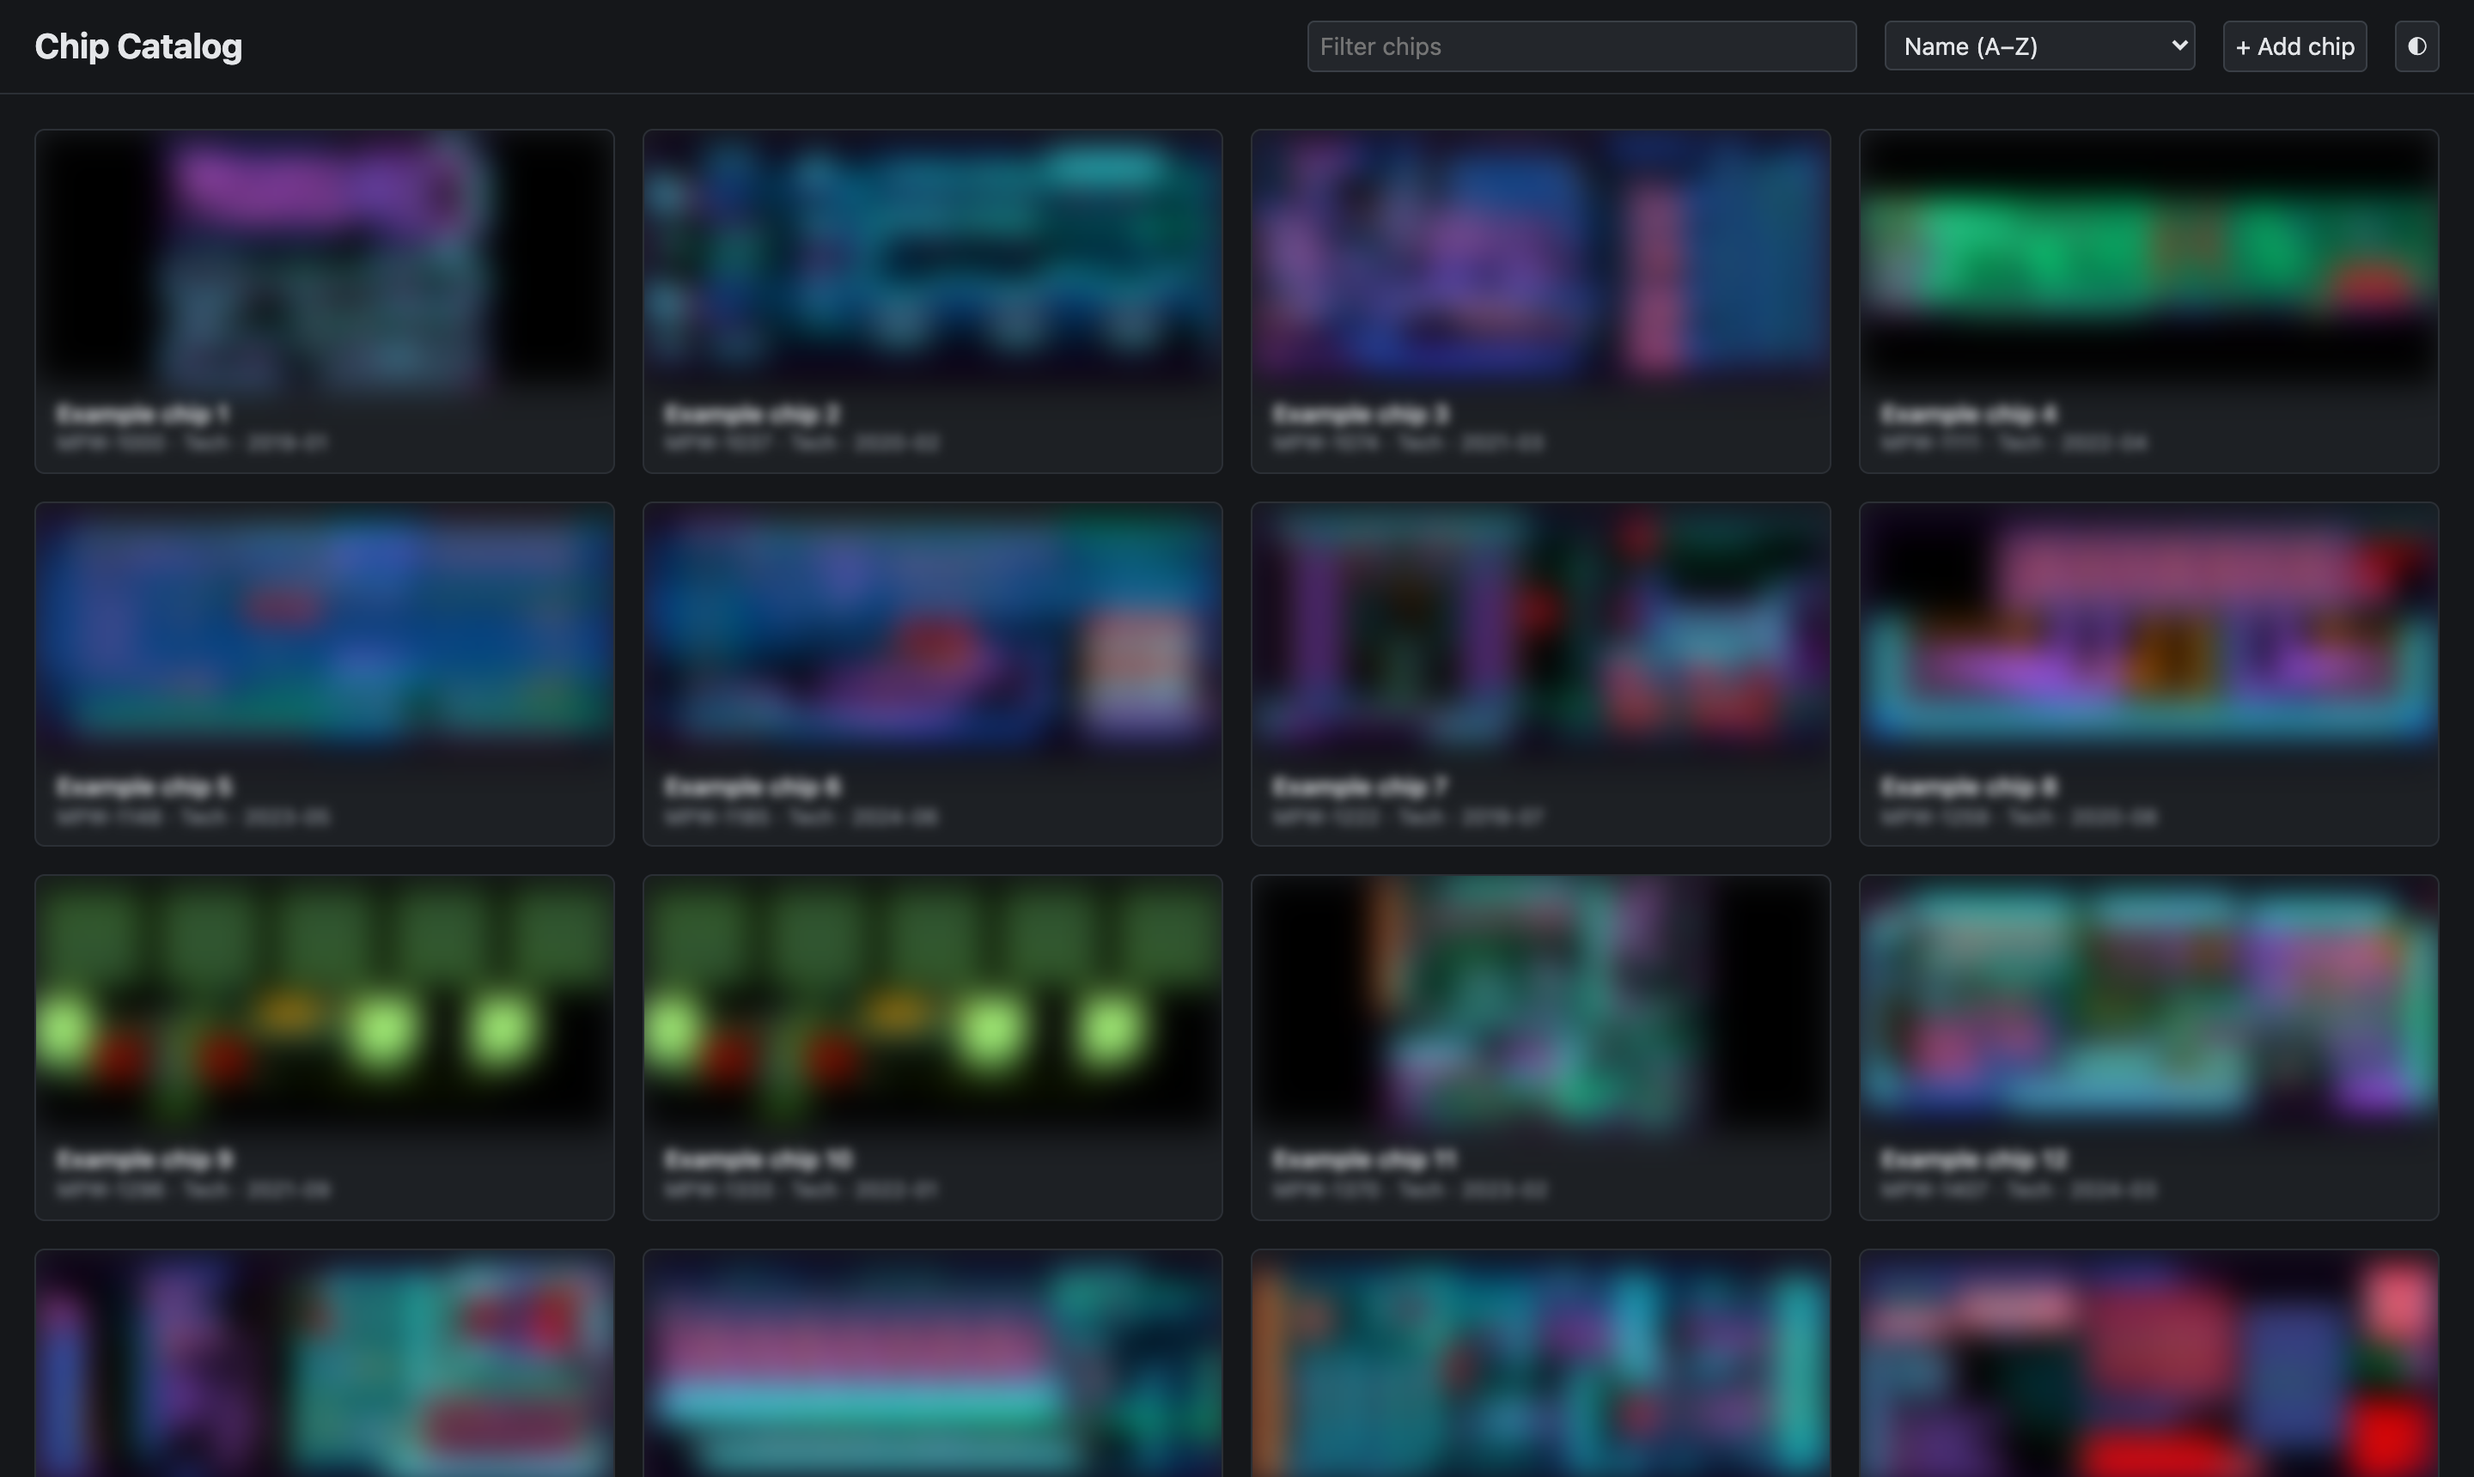
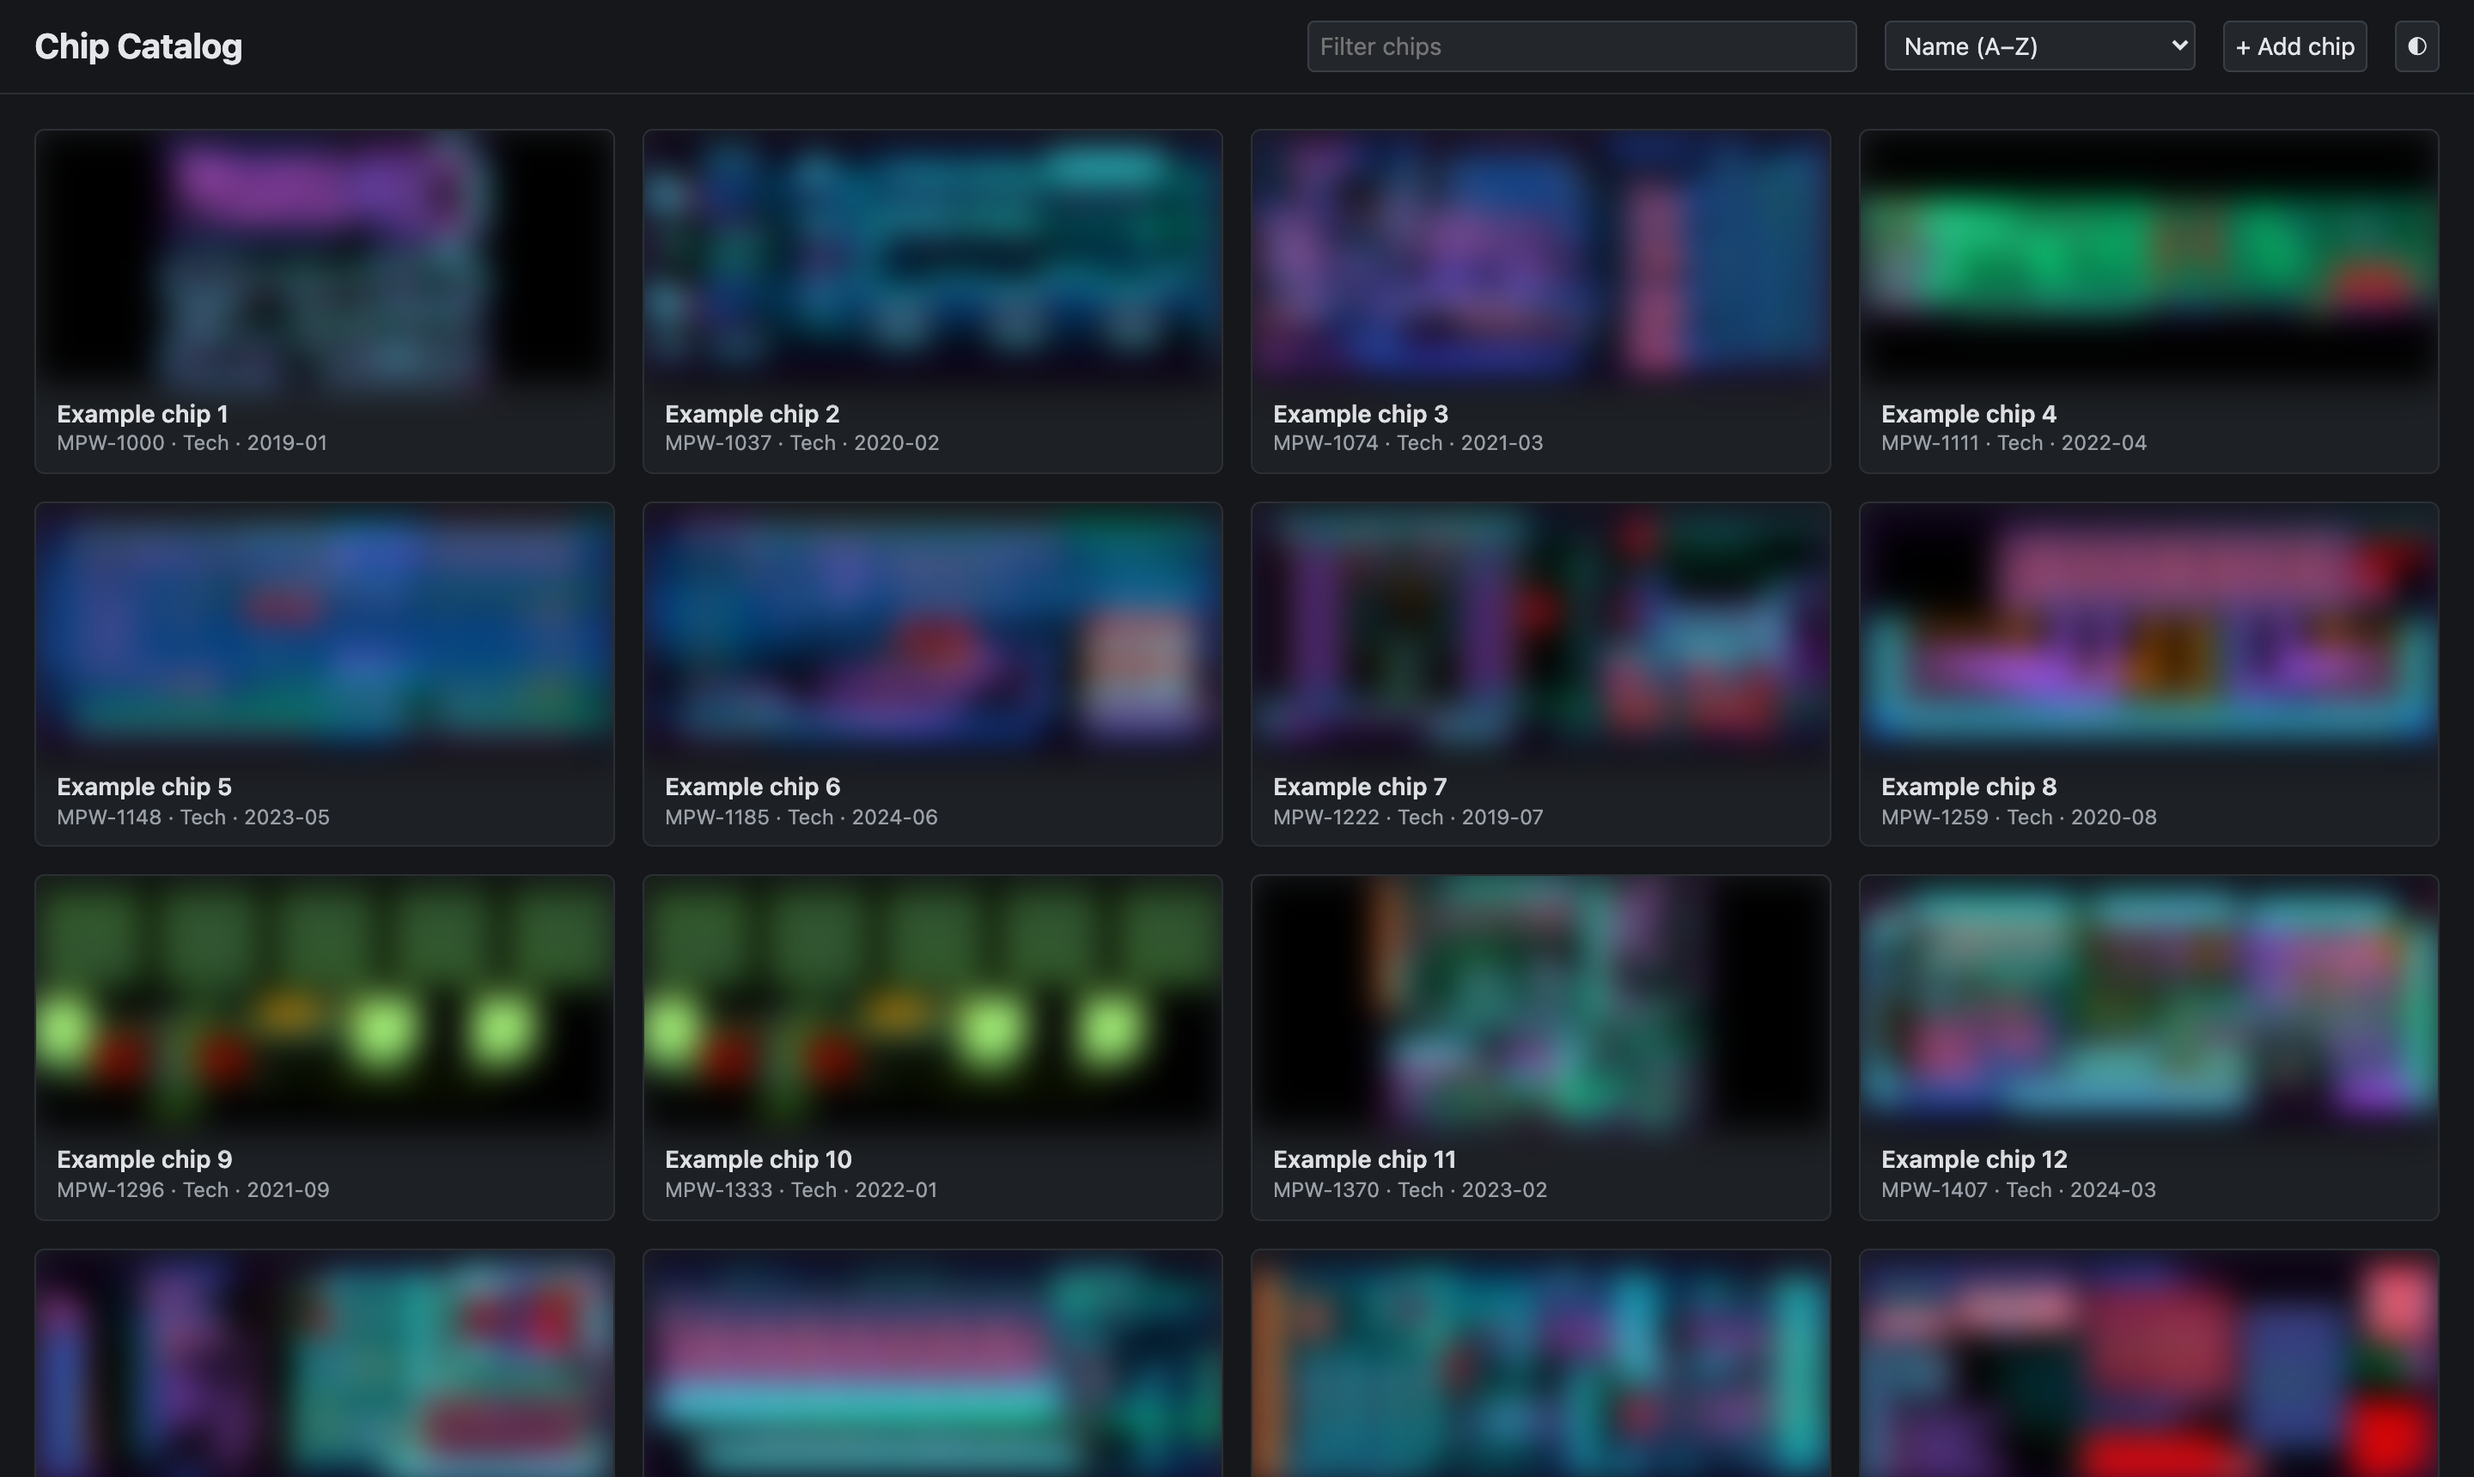
Blur only the layouts in screenshots

diff --git a/README.md b/README.md
@@ -8,7 +8,7 @@ The app holds no lab data. All data lives in one catalog directory. Another lab 
 
 ![Chip page with the wafer map](docs/chip.png)
 
-The screenshots blur the chip layouts and show placeholder names.
+The screenshots show placeholder names and blur the chip layouts.
 
 ## Set up for your organisation
 
